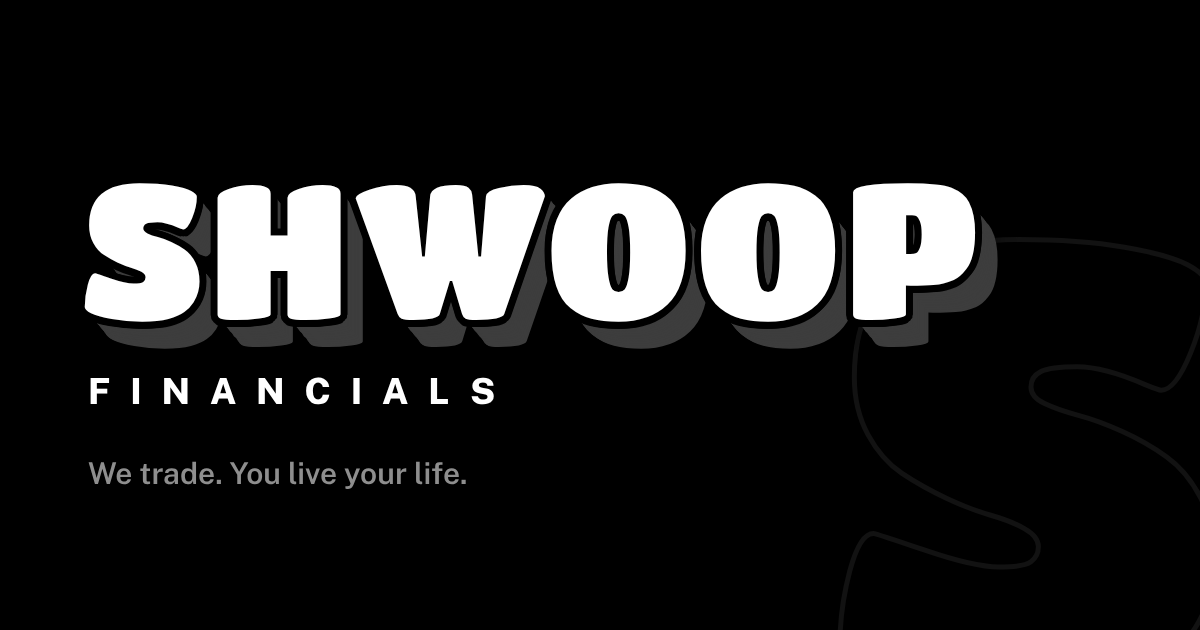
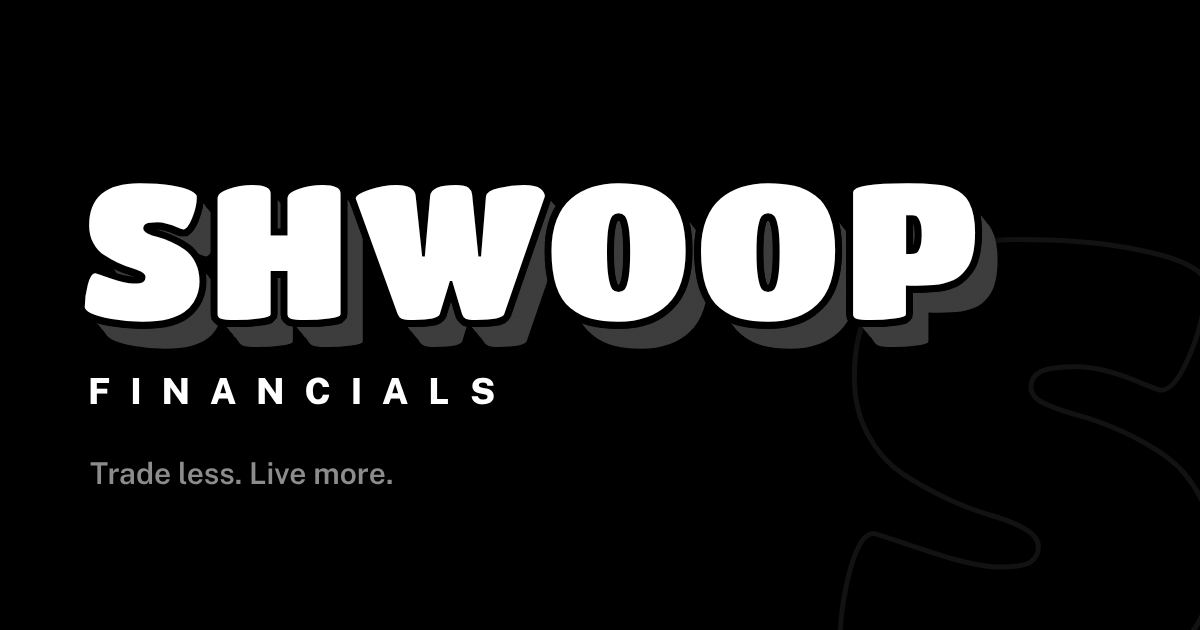
Carry the new slogan on the page title, link preview and preview image
The title, the og:description and og-image.png still said the old slogan. Also
notes the slogan and sign-in logo change in CLAUDE.md.

Claude-Session: https://claude.ai/code/session_01PYvNscv7toqH6sCw7ADjw2

Changed region(s): [[0.0617, 0.7238, 0.4008, 0.7841]]

diff --git a/index.html b/index.html
@@ -12,14 +12,14 @@
 <meta name="description" content="Private trading dashboard. Authorized users only.">
 <meta name="theme-color" content="#FAFAF8" media="(prefers-color-scheme: light)">
 <meta name="theme-color" content="#000000" media="(prefers-color-scheme: dark)">
-<title>Shwoop Financials: We trade. You live your life.</title>
+<title>Shwoop Financials: Trade less. Live more.</title>
 <link rel="icon" type="image/png" href="favicon-64.png">
 <!-- Without this iOS makes its own icon: a plain letter "S" on a dark tile. It is the bubbly white S on black (brand mark A, Oct 20, 2026), full bleed because iOS rounds the corners itself. -->
 <link rel="apple-touch-icon" href="apple-touch-icon.png">
 <link rel="manifest" href="manifest.webmanifest">
 <!-- Link previews (texts, chats) read these. The image URL has to be absolute or the preview app cannot find it; it is a pointer for other apps to fetch, not a request this page makes. -->
 <meta property="og:title" content="Shwoop Financials">
-<meta property="og:description" content="We trade. You live your life.">
+<meta property="og:description" content="Trade less. Live more.">
 <meta property="og:type" content="website">
 <meta property="og:image" content="https://shwoopnet.github.io/og-image.png">
 <meta name="twitter:card" content="summary_large_image">

diff --git a/CLAUDE.md b/CLAUDE.md
@@ -61,6 +61,8 @@ A fourth page, **Data**, was added at the owner's request ("start building out a
 
 **Strategy numbers, live tests and a plain skip line (Oct 22, 2026, the owner: "so i dont get lost").** The Data page has a read-only card, **The strategy in numbers** (profit factor, win rate against the break-even win rate, average win and loss, deepest drawdown, longest losing run), a **Profit factor** column in By market (a market with fewer than 30 settled trades shows "too few", the health check's rule), and a **Live tests** card (windows with two filled crypto orders since the one-order-per-window rule, which should stay 0, and how many orders carry `rng5`; both start times are approximate). All plain text, no new colour, no control (gates D8 to D10). On the Bot page a minute the bot skipped is said plainly ("Skipped a minute (time): ... It looks again every minute."), and a 429 explains itself (gate D11).
 
+**Slogan and sign-in logo (Oct 23, 2026, the owner).** The slogan is **Trade less. Live more.** (it was "We trade. You live your life."); the signed-out tab title, the link preview text and `og-image.png` carry it. The sign-in box shows the same wordmark as the header (`.brand-name` and `.brand-fin`, `test/signInWordmarkGates.test.js`), not the old wallet icon. The shirt and hoodie artwork is merchandise only and lives outside this repo.
+
 **Fonts are local (Oct 22, 2026).** Public Sans, IBM Plex Mono and Titan One are served from `fonts/` (Latin subset, SIL Open Font License, see `fonts/README.md`), not from a font service, so the page makes no font request and a visitor's network address stays on this site. `test/selfHostedFontsGates.test.js` checks the files, the rules and that no font host is referenced; `blankSlateGates` no longer allows the font hosts and `motionHonestyGates` now expects zero outside resources.
 
 **Printable statement and "as of" stamp (Oct 22, 2026, the owner: make the site feel official).** Tools, Export has a month picker and **Print statement** (this month or last month, US Central): a plain document of that month's settled trades with the same figures as the Data page (summary, by market, every trade), opened in a hidden frame so the browser's print dialog can save a PDF (`kalshiStatementHtml`, gate D13). It is an export, so its dollar figures are raw and not masked by Privacy, like Copy all orders. It is deliberately NOT on the Data page, which has no control. The Data page note starts with "As of <time> CT".
